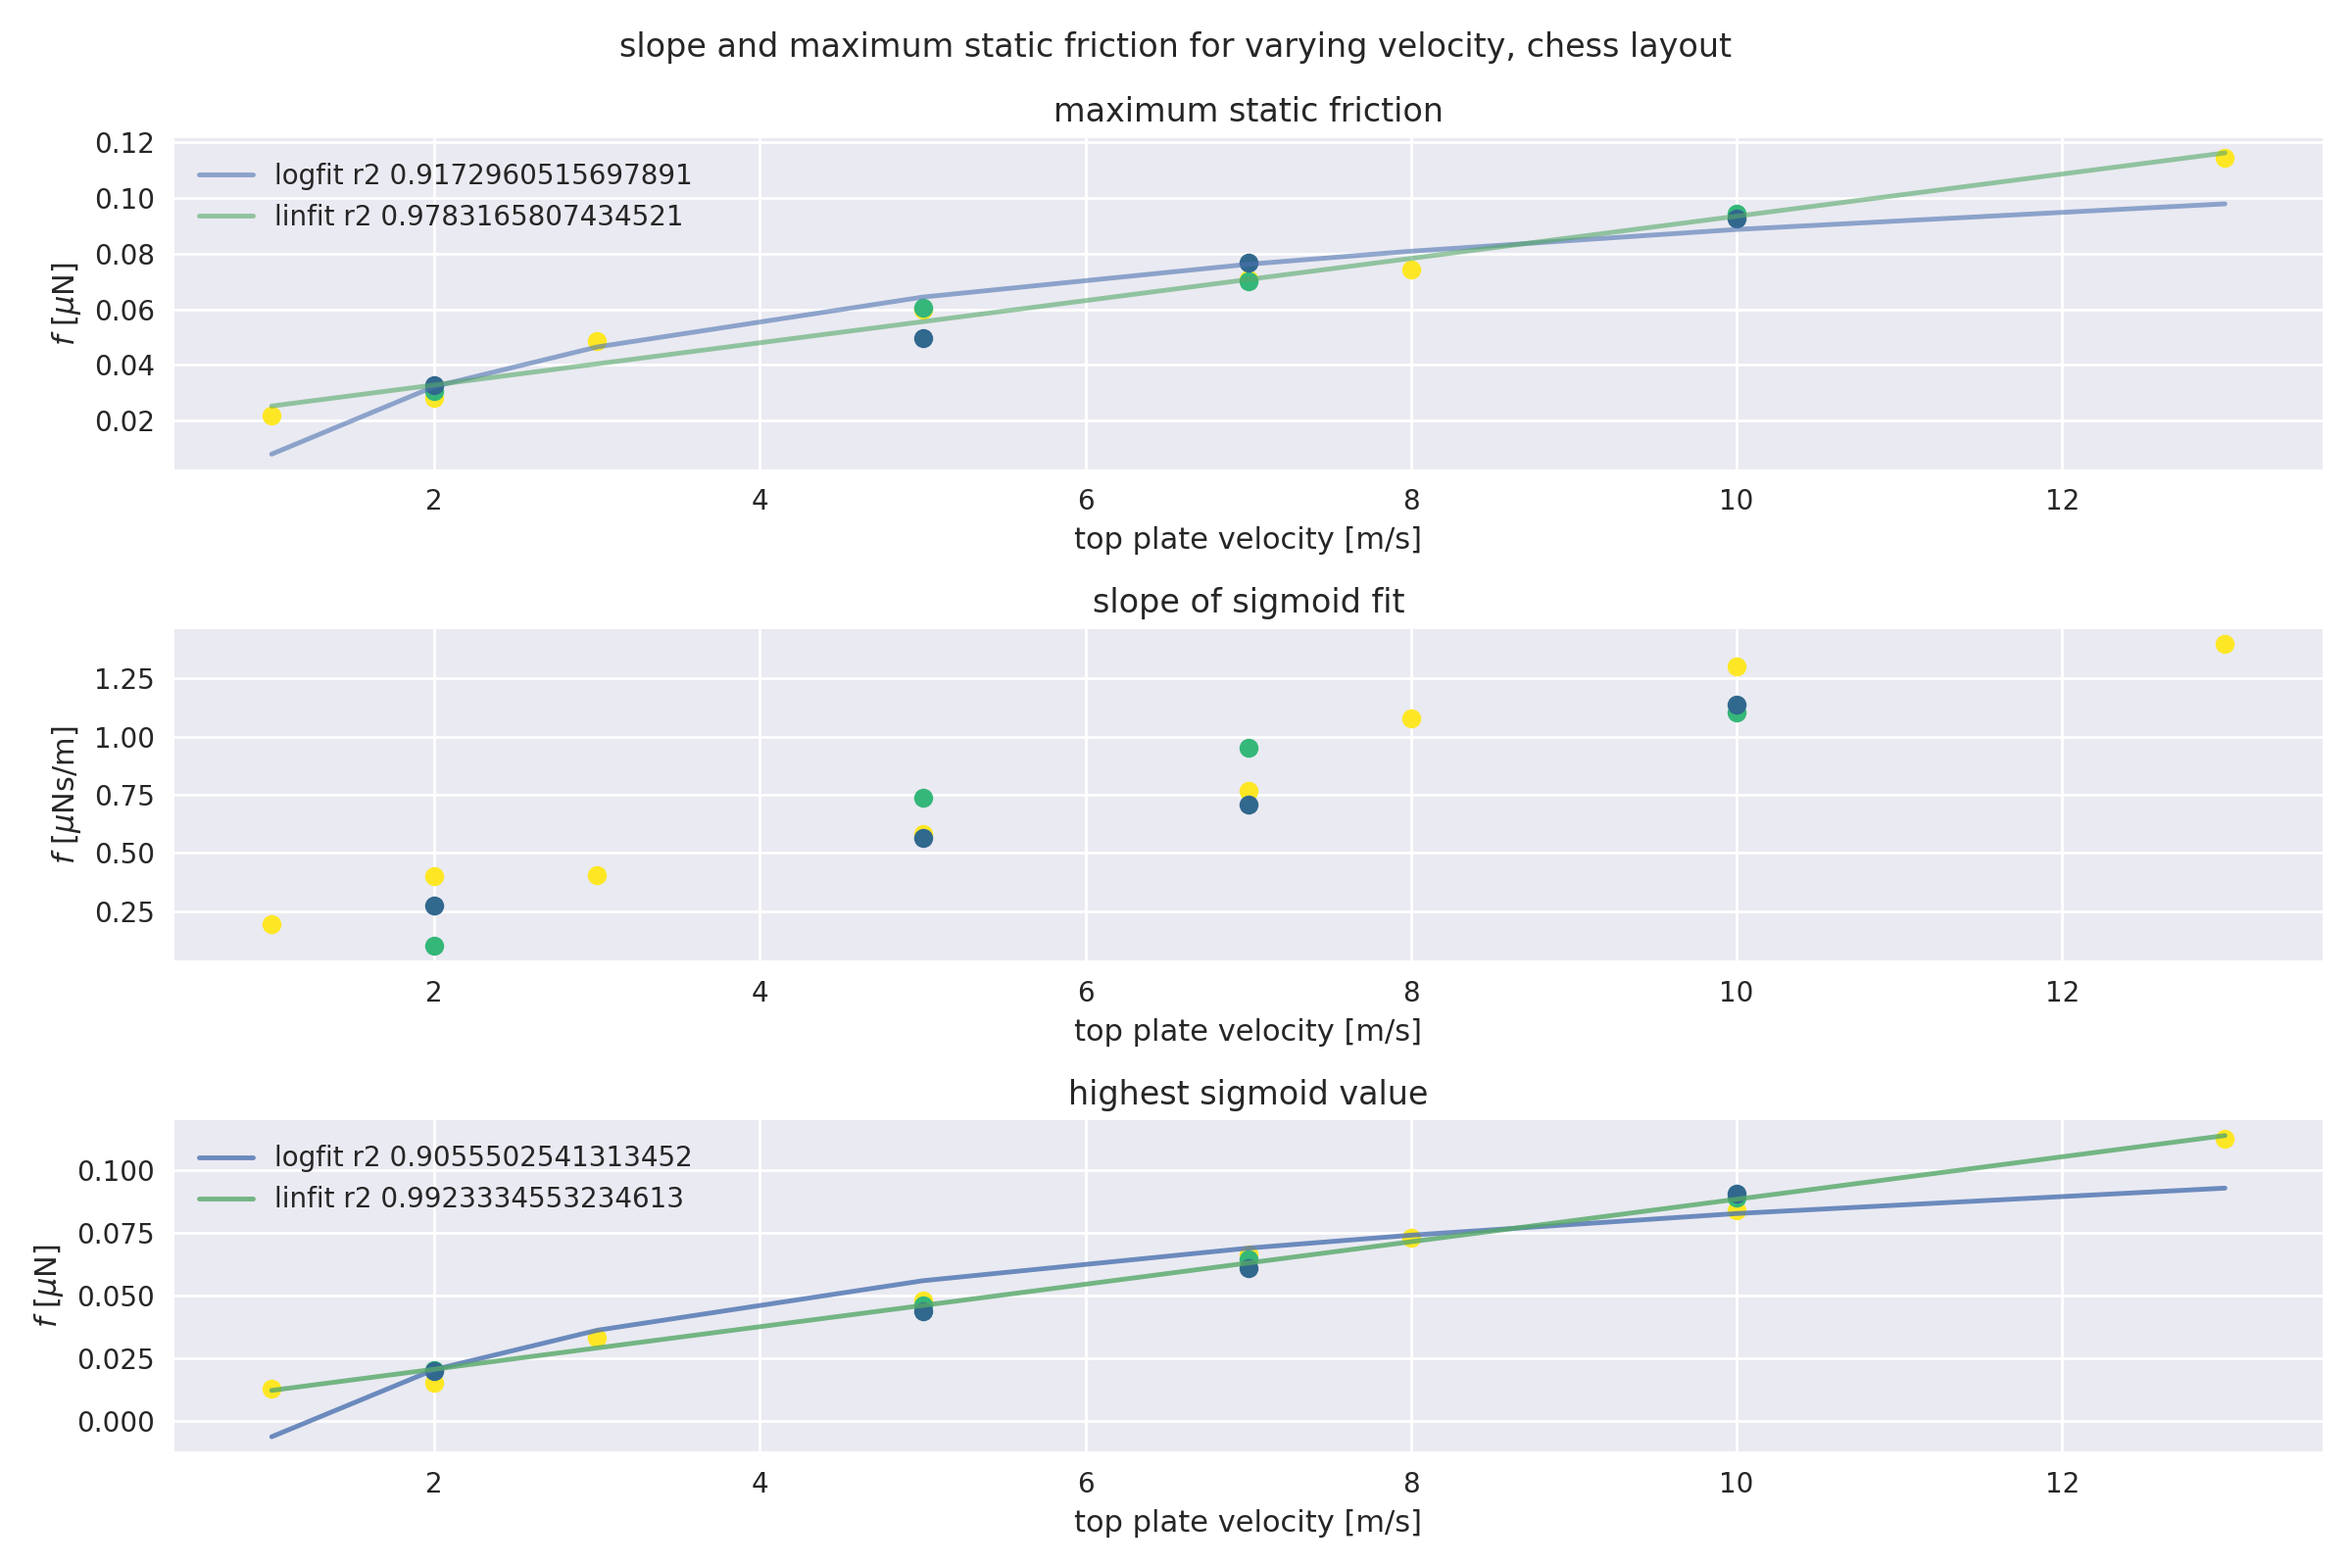
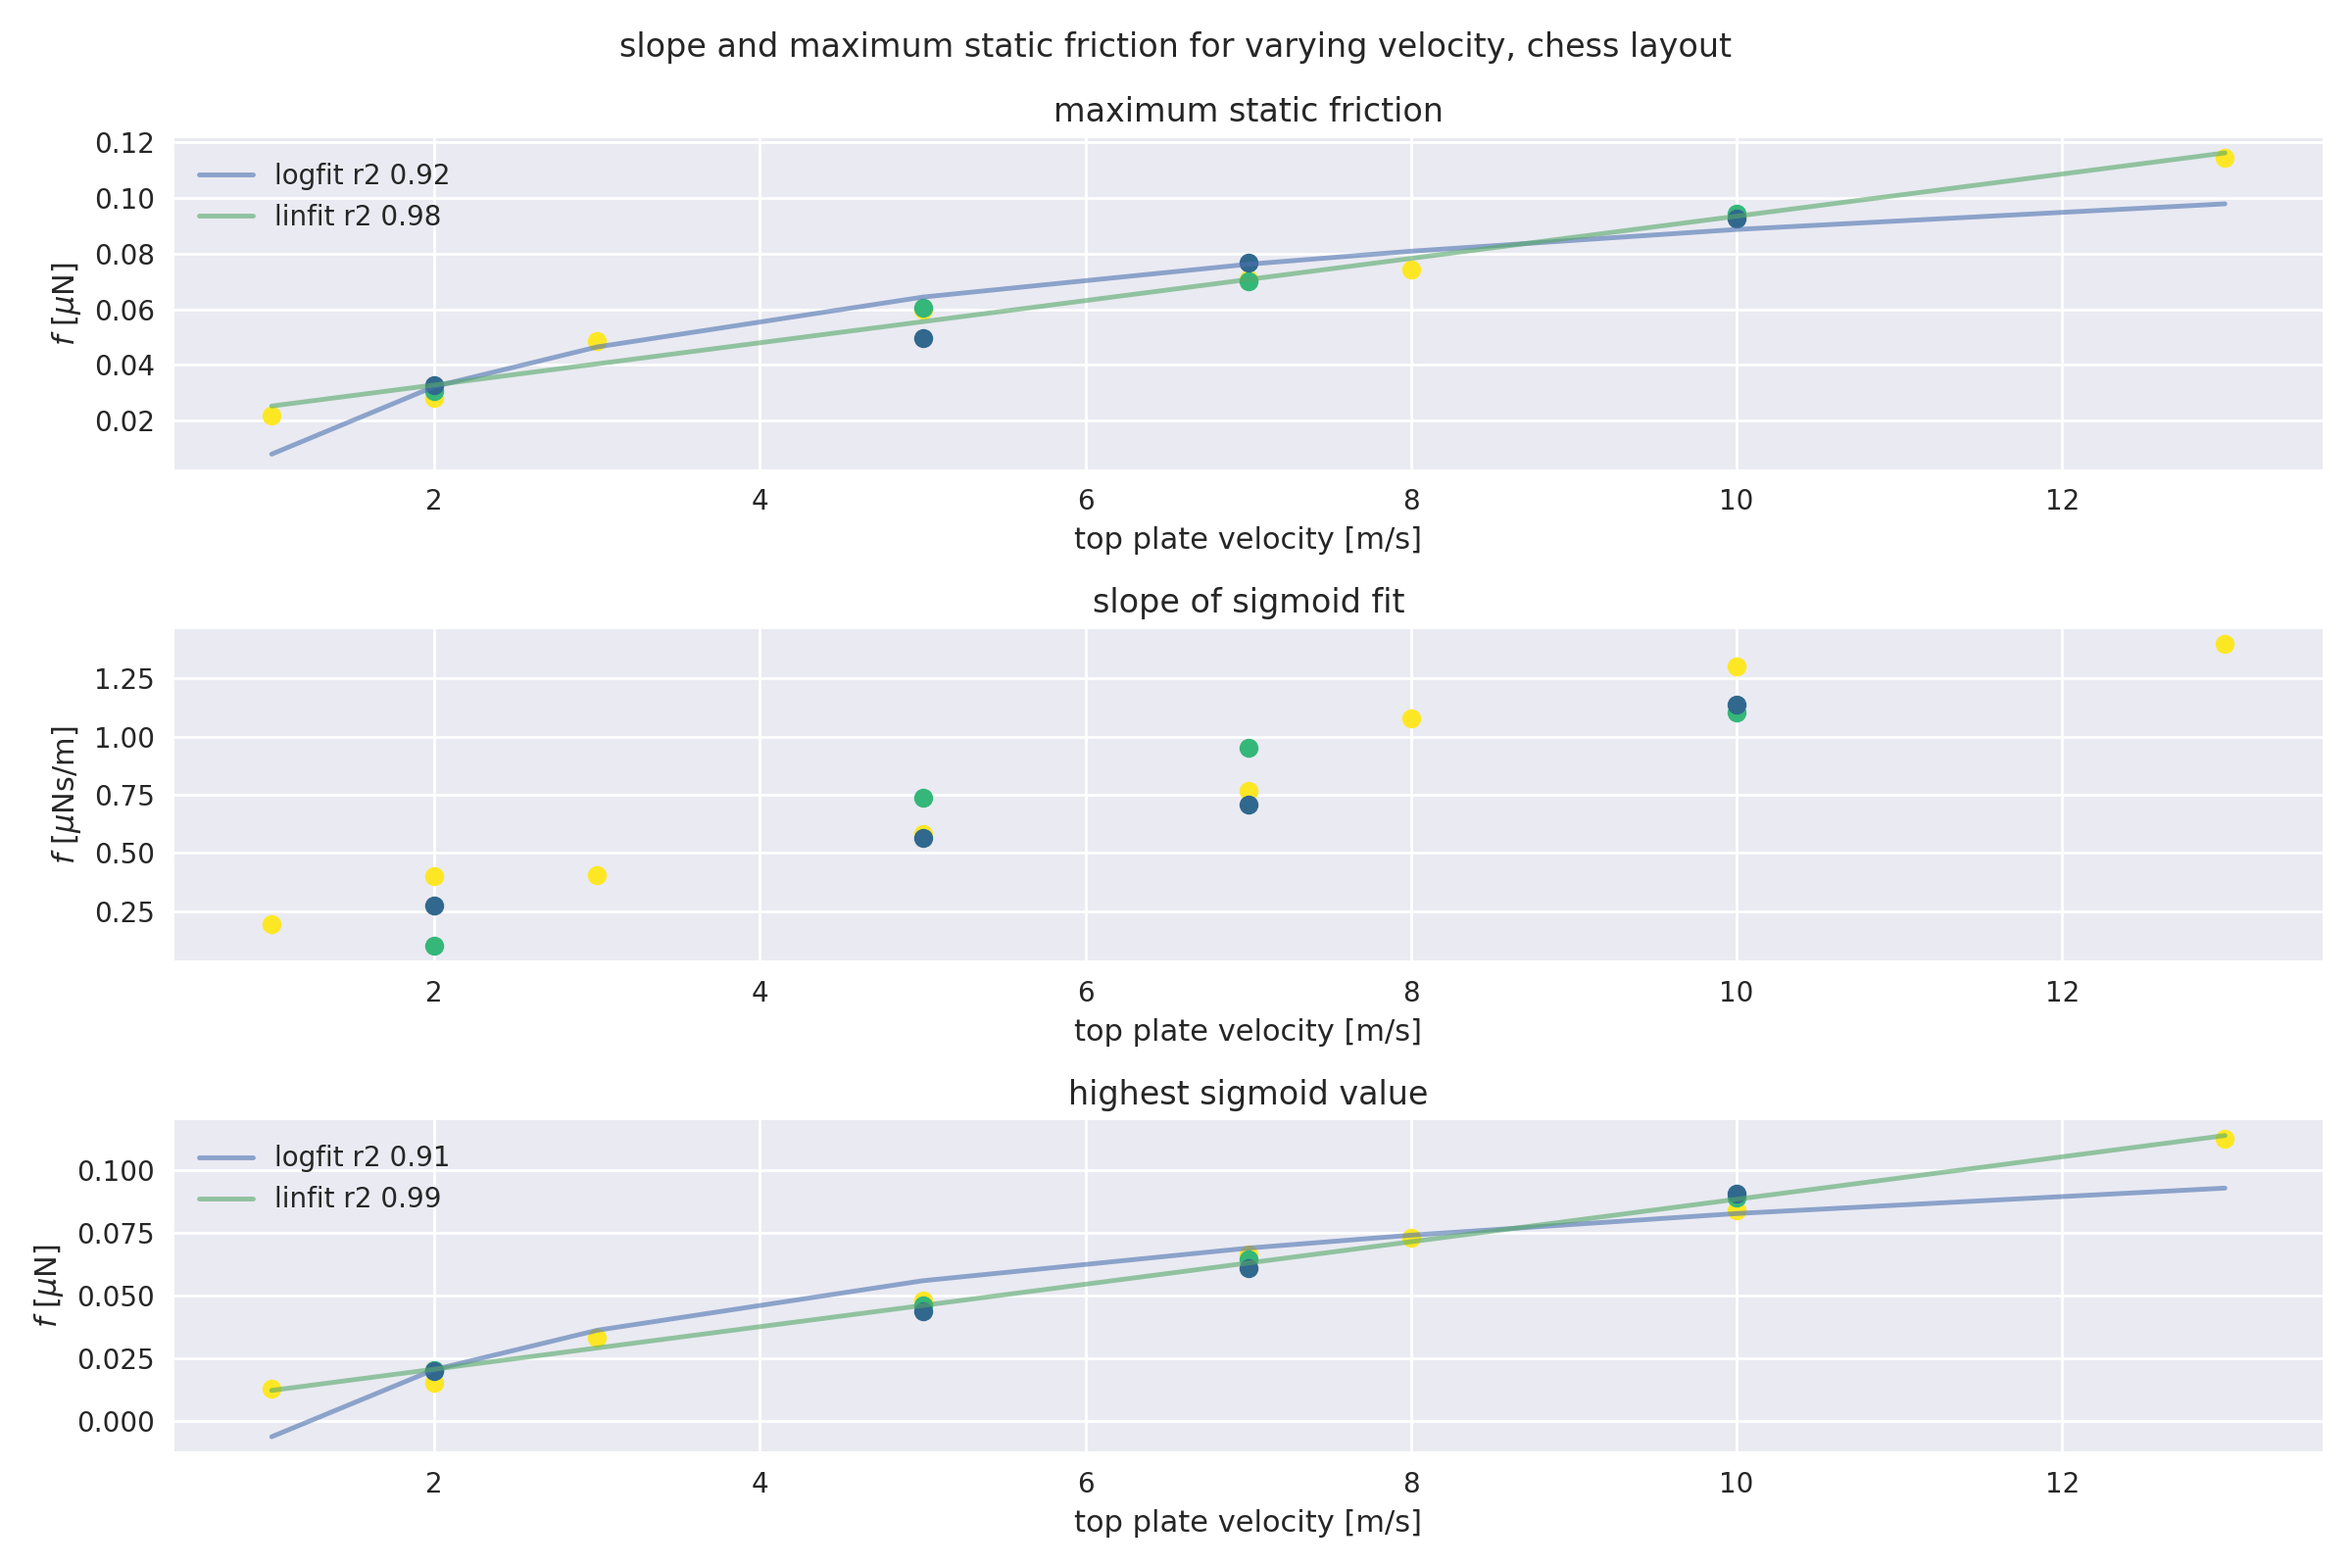
minor tweaks

diff --git a/python/plot/plot_vary_speed.py b/python/plot/plot_vary_speed.py
@@ -103,8 +103,8 @@ def load_vs_normal_force():
     polfit_plot_vels = np.linspace(vels[0], vels[-1], 100)
     sigmax_logfit_arr = sigmax_logfit[0] * np.log(vels) + sigmax_logfit[1]
     sigmax_linfit_arr = sigmax_linfit[0] * np.array(vels) + sigmax_linfit[1]
-    axs2[2].plot(vels, sigmax_logfit_arr, label=f'logfit r2 {r2_score(sigmax_vels, sigmax_logfit_arr)}', alpha = 0.8)
-    axs2[2].plot(vels, sigmax_linfit_arr, label=f'linfit r2 {r2_score(sigmax_vels, sigmax_linfit_arr)}', alpha = 0.8)
+    axs2[2].plot(vels, sigmax_logfit_arr, label=f'logfit r2 {r2_score(sigmax_vels, sigmax_logfit_arr):.2f}', alpha = 0.6)
+    axs2[2].plot(vels, sigmax_linfit_arr, label=f'linfit r2 {r2_score(sigmax_vels, sigmax_linfit_arr):.2f}', alpha = 0.6)
     axs2[2].legend()
 
     ms_logfit = np.polyfit(np.log(vels), ms_vels, 1)
@@ -112,8 +112,8 @@ def load_vs_normal_force():
 
     ms_logfit_arr = ms_logfit[0] * np.log(vels) + ms_logfit[1]
     ms_linfit_arr = ms_linfit[0] * np.array(vels) + ms_linfit[1] #apply linear fit to ms vels
-    axs2[0].plot(vels, ms_logfit_arr, label=f'logfit r2 {r2_score(ms_vels, ms_logfit_arr)}', alpha = 0.6)
-    axs2[0].plot(vels, ms_linfit_arr, label = f'linfit r2 {r2_score(ms_vels, ms_linfit_arr)}', alpha = 0.6)
+    axs2[0].plot(vels, ms_logfit_arr, label=f'logfit r2 {r2_score(ms_vels, ms_logfit_arr):.2f}', alpha = 0.6)
+    axs2[0].plot(vels, ms_linfit_arr, label = f'linfit r2 {r2_score(ms_vels, ms_linfit_arr):.2f}', alpha = 0.6)
     axs2[0].legend()
     fig.suptitle(f"Load curves for the chess system with increasing top plate velocity")
     fig.tight_layout(pad=1.8)
